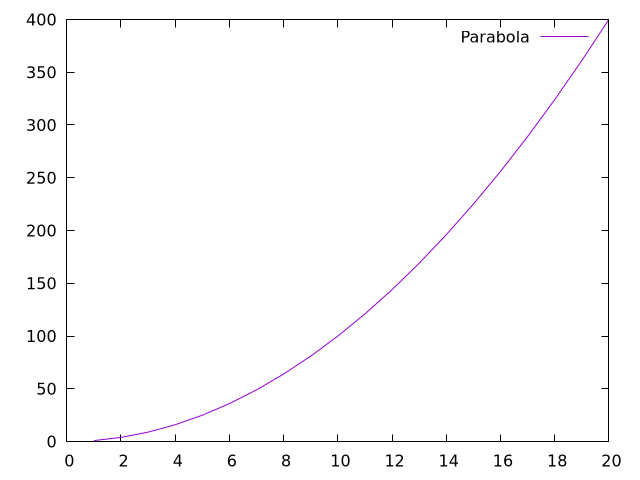
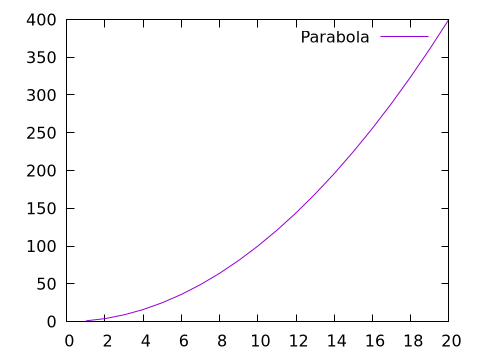
Examples updated

diff --git a/README.md b/README.md
@@ -32,7 +32,7 @@ The following examples are supposed to be rather self-explaining.  See [document
 ```julia
 x = 1.:20
 @gp x x.^2 "with lines title 'Parabola'"
-save(term="pngcairo size 640,480", output="examples/ex1.png")
+save(term="pngcairo size 480,360", output="examples/ex1.png")
 save("parabola.gp")  # => save a script file with both data and command to re-create the plot.  
 ```
 ![ex1.png](examples/ex1.png)
